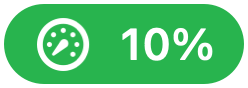
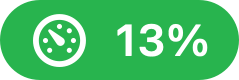
docs: refresh all README screenshots from v0.20.2
Settings (General, Accounts, Alerts) and the dropdown captured from the
installed v0.20.2 against a throwaway home with demo usage, sessions and
an outage; menu-bar pills rendered from MenuBarLabel at 4x. Light and
dark; ?v= stamps bumped, pill widths follow the new renders.

diff --git a/README.md b/README.md
@@ -22,23 +22,23 @@ work between the two quotas. See [Codex usage](#codex-usage).
 ### Menubar
 
 <picture>
-  <source media="(prefers-color-scheme: dark)" srcset="docs/screenshots/menubar-dark.png?v=0.14.2">
-  <img alt="menubar gauge" src="docs/screenshots/menubar-light.png?v=0.14.2" width="93">
+  <source media="(prefers-color-scheme: dark)" srcset="docs/screenshots/menubar-dark.png?v=0.20.2">
+  <img alt="menubar gauge" src="docs/screenshots/menubar-light.png?v=0.20.2" width="90">
 </picture>
 &nbsp;&nbsp;&nbsp;&nbsp;
 <picture>
-  <source media="(prefers-color-scheme: dark)" srcset="docs/screenshots/menubar-outage-dark.png?v=0.14.2">
-  <img alt="menubar outage indicator" src="docs/screenshots/menubar-outage-light.png?v=0.14.2" width="124">
+  <source media="(prefers-color-scheme: dark)" srcset="docs/screenshots/menubar-outage-dark.png?v=0.20.2">
+  <img alt="menubar outage indicator" src="docs/screenshots/menubar-outage-light.png?v=0.20.2" width="120">
 </picture>
 &nbsp;&nbsp;&nbsp;&nbsp;
 <picture>
-  <source media="(prefers-color-scheme: dark)" srcset="docs/screenshots/menubar-codex-dark.png?v=0.14.2">
-  <img alt="menubar pill showing Claude and Codex" src="docs/screenshots/menubar-codex-light.png?v=0.14.2" width="179">
+  <source media="(prefers-color-scheme: dark)" srcset="docs/screenshots/menubar-codex-dark.png?v=0.20.2">
+  <img alt="menubar pill showing Claude and Codex" src="docs/screenshots/menubar-codex-light.png?v=0.20.2" width="183">
 </picture>
 &nbsp;&nbsp;&nbsp;&nbsp;
 <picture>
-  <source media="(prefers-color-scheme: dark)" srcset="docs/screenshots/menubar-sessions-dark.png?v=0.14.2">
-  <img alt="menubar pill with a session needing permission" src="docs/screenshots/menubar-sessions-light.png?v=0.14.2" width="124">
+  <source media="(prefers-color-scheme: dark)" srcset="docs/screenshots/menubar-sessions-dark.png?v=0.20.2">
+  <img alt="menubar pill with a session needing permission" src="docs/screenshots/menubar-sessions-light.png?v=0.20.2" width="120">
 </picture>
 
 - A gauge icon + percentage rendered on a colour-shifted pill — the
@@ -80,8 +80,8 @@ work between the two quotas. See [Codex usage](#codex-usage).
 ### Dropdown
 
 <picture>
-  <source media="(prefers-color-scheme: dark)" srcset="docs/screenshots/dropdown-dark.png?v=0.18.0">
-  <img alt="dropdown panel" src="docs/screenshots/dropdown-light.png?v=0.18.0" width="280">
+  <source media="(prefers-color-scheme: dark)" srcset="docs/screenshots/dropdown-dark.png?v=0.20.2">
+  <img alt="dropdown panel" src="docs/screenshots/dropdown-light.png?v=0.20.2" width="280">
 </picture>
 
 - **Resizable width**: drag either side edge of the panel (280–720 pt,
@@ -215,18 +215,18 @@ windows; the gauge needle always shows the absolute level.
 ### Settings window
 
 <picture>
-  <source media="(prefers-color-scheme: dark)" srcset="docs/screenshots/settings-general-dark.png?v=0.19.1">
-  <img alt="Settings — General tab" src="docs/screenshots/settings-general-light.png?v=0.19.1" width="460">
+  <source media="(prefers-color-scheme: dark)" srcset="docs/screenshots/settings-general-dark.png?v=0.20.2">
+  <img alt="Settings — General tab" src="docs/screenshots/settings-general-light.png?v=0.20.2" width="460">
 </picture>
 &nbsp;
 <picture>
-  <source media="(prefers-color-scheme: dark)" srcset="docs/screenshots/settings-accounts-dark.png?v=0.17.0">
-  <img alt="Settings — Accounts tab" src="docs/screenshots/settings-accounts-light.png?v=0.17.0" width="460">
+  <source media="(prefers-color-scheme: dark)" srcset="docs/screenshots/settings-accounts-dark.png?v=0.20.2">
+  <img alt="Settings — Accounts tab" src="docs/screenshots/settings-accounts-light.png?v=0.20.2" width="460">
 </picture>
 &nbsp;
 <picture>
-  <source media="(prefers-color-scheme: dark)" srcset="docs/screenshots/settings-alerts-dark.png?v=0.16.0">
-  <img alt="Settings — Alerts tab" src="docs/screenshots/settings-alerts-light.png?v=0.16.0" width="460">
+  <source media="(prefers-color-scheme: dark)" srcset="docs/screenshots/settings-alerts-dark.png?v=0.20.2">
+  <img alt="Settings — Alerts tab" src="docs/screenshots/settings-alerts-light.png?v=0.20.2" width="460">
 </picture>
 
 **⚙ Settings…** (⌘,) in the dropdown footer opens one window with three
